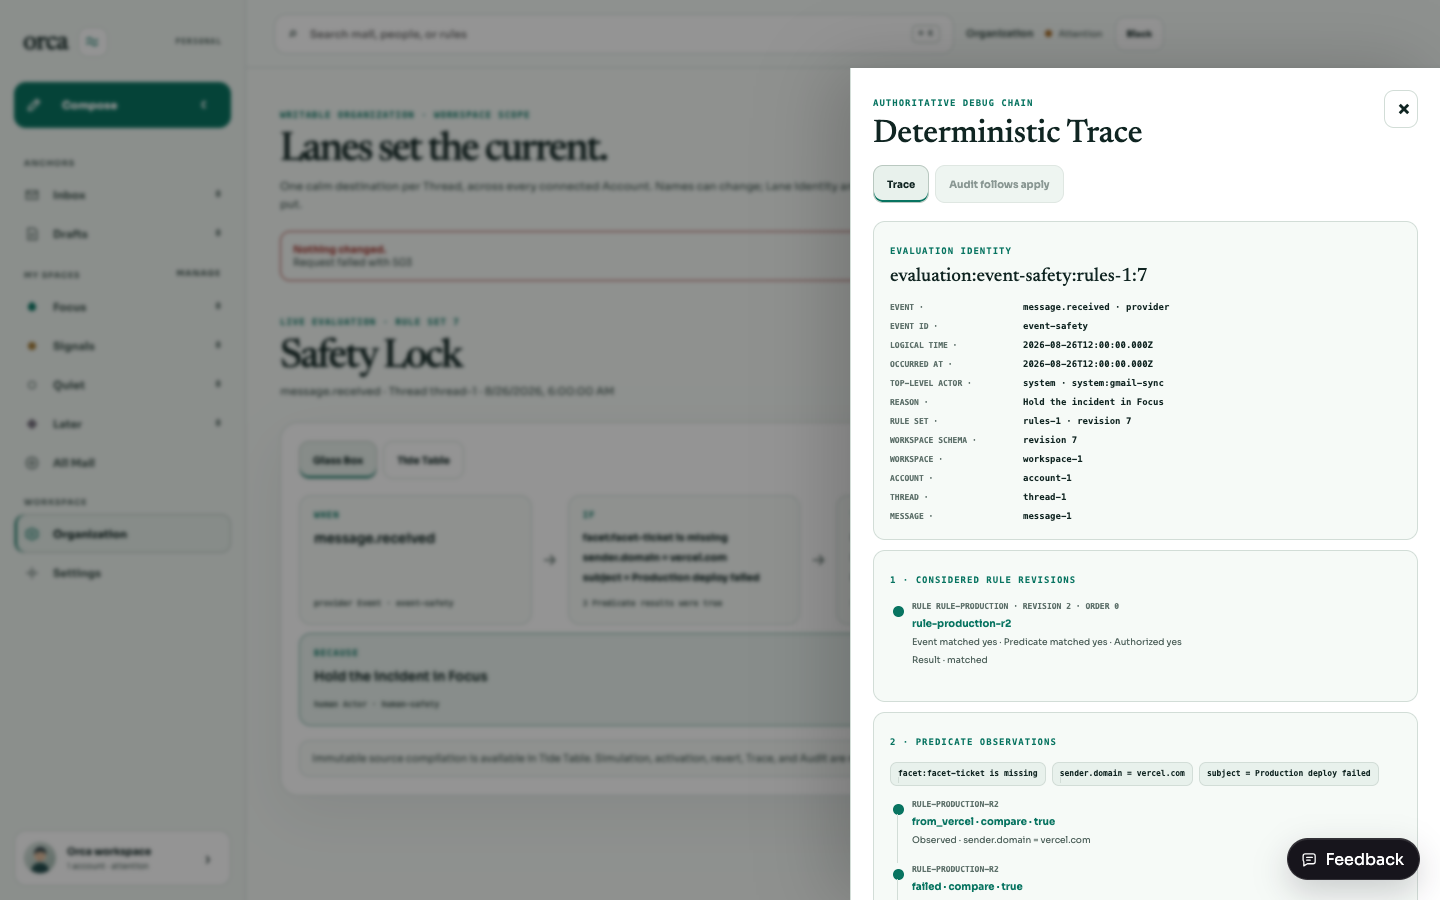
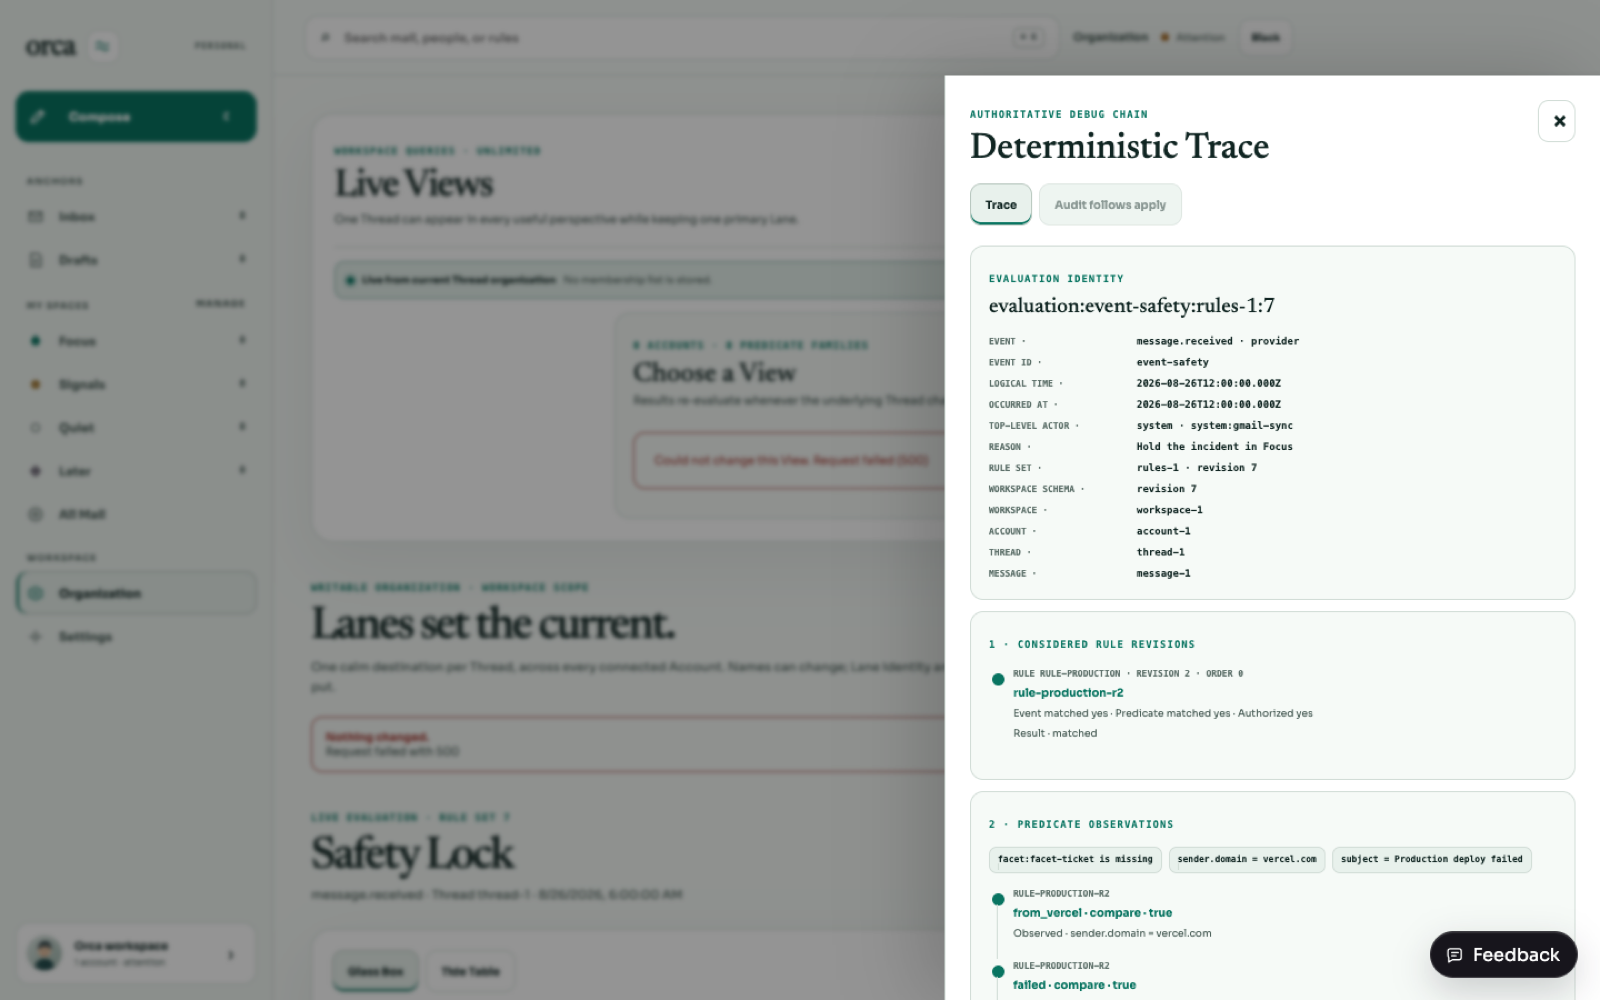
fix(BRE-315): align live evaluation with Rule authority

diff --git a/apps/api/src/organization/rules/evaluation-integration.test.ts b/apps/api/src/organization/rules/evaluation-integration.test.ts
@@ -95,7 +95,7 @@ function setup() {
   });
   const compiled = service.compile({
     actor: { id: "workspace-1", type: "human" }, workspaceId: "workspace-1",
-    request: { expectedRuleRevision: null, workspaceSchemaRevision: 1, source: `orca 1
+    request: { idempotencyKey: "bre-315-production-failures", expectedRuleRevision: null, workspaceSchemaRevision: 1, source: `orca 1
 rule "Production failures"
 event message.received
 predicate from_vercel = sender.domain equals "vercel.com"
@@ -159,7 +159,7 @@ describe("message.received Rule evaluation", () => {
       const email = db.select().from(emails).where(eq(emails.providerMessageId, "initial")).get()!;
       const updateRule = service.compile({
         actor: { id: "workspace-1", type: "human" }, workspaceId: "workspace-1",
-        request: { expectedRuleRevision: null, workspaceSchemaRevision: 1, source: `orca 1
+        request: { idempotencyKey: "bre-315-thread-updated", expectedRuleRevision: null, workspaceSchemaRevision: 2, source: `orca 1
 rule "Production follow-ups"
 event thread.updated
 when subject contains "failed"
@@ -194,7 +194,7 @@ because "A failed follow-up remains focused"` },
       const updateRule = service.compile({
         actor: { id: "workspace-1", type: "human" },
         workspaceId: "workspace-1",
-        request: { expectedRuleRevision: null, workspaceSchemaRevision: 1, source: `orca 1
+        request: { idempotencyKey: "bre-315-safety-lock-replay", expectedRuleRevision: null, workspaceSchemaRevision: 2, source: `orca 1
 rule "Production follow-ups"
 event thread.updated
 when subject contains "failed"
@@ -277,7 +277,7 @@ because "A failed follow-up remains focused"` },
       const email = db.select().from(emails).where(eq(emails.providerMessageId, "proposal-initial")).get()!;
       const proposalRule = service.compile({
         actor: { id: "workspace-1", type: "human" }, workspaceId: "workspace-1",
-        request: { expectedRuleRevision: null, workspaceSchemaRevision: 1, source: `orca 1
+        request: { idempotencyKey: "bre-315-proposal-boundary", expectedRuleRevision: null, workspaceSchemaRevision: 2, source: `orca 1
 rule "Proposal boundary"
 event thread.updated
 when subject contains "proposal"

diff --git a/apps/api/src/organization/rules/evaluator.ts b/apps/api/src/organization/rules/evaluator.ts
@@ -262,7 +262,12 @@ export function evaluateOrcaRules(input: OrcaEvaluationInput): OrcaEvaluationRes
       });
       continue;
     }
-    if (rule.compiled.workspaceSchemaRevision !== input.workspaceSchema.revision || rule.compiled.workspaceId !== input.workspaceSchema.workspaceId) {
+    // Persisting an immutable Rule Revision is itself an authoritative
+    // Organization mutation, so the live Workspace revision advances beyond
+    // the schema snapshot used to compile it. Historical snapshots remain
+    // valid by stable resource ID; only future-dated or cross-Workspace IR is
+    // ineligible for live evaluation.
+    if (rule.compiled.workspaceSchemaRevision > input.workspaceSchema.revision || rule.compiled.workspaceId !== input.workspaceSchema.workspaceId) {
       considered.push({ ruleId: rule.ruleId, revisionId: rule.revisionId, revision: rule.revision, order: rule.order, eventMatched: true, predicateMatched: false, authorized: false, reason: "predicate_not_matched" });
       continue;
     }
